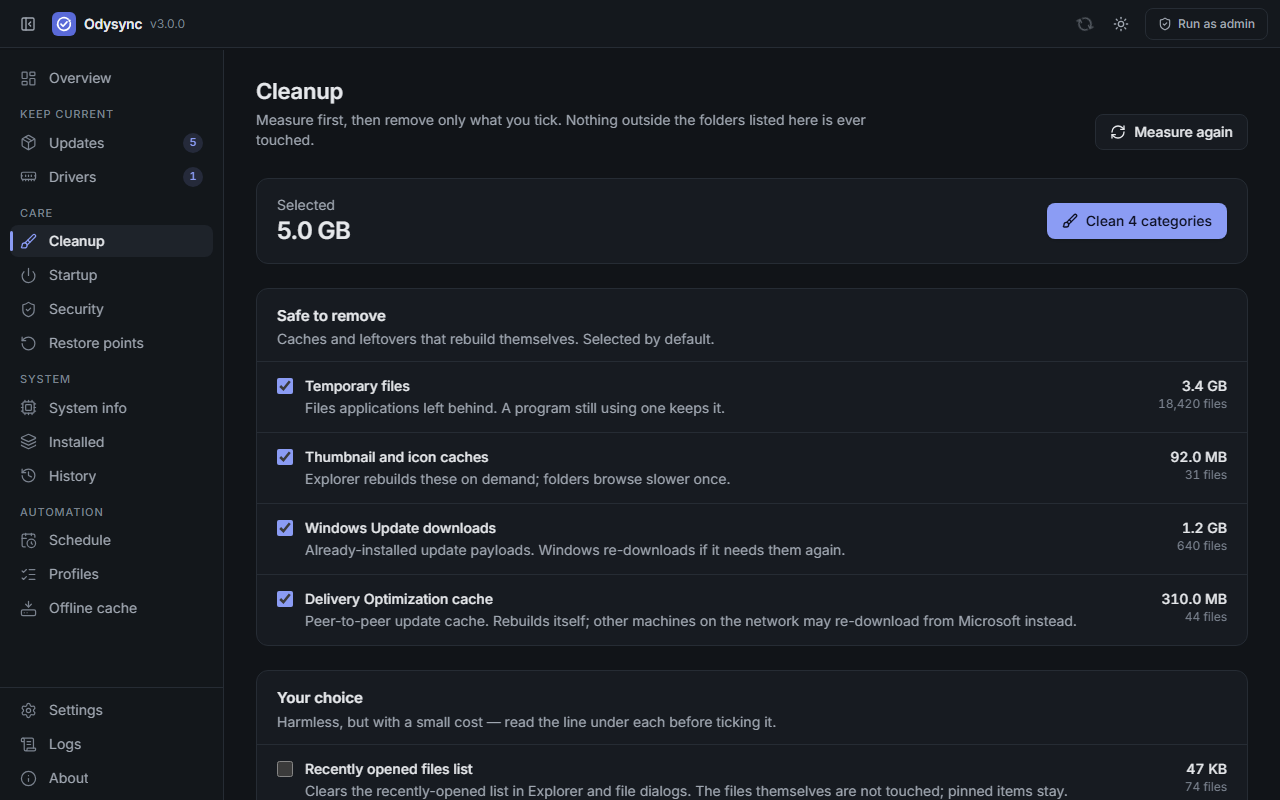
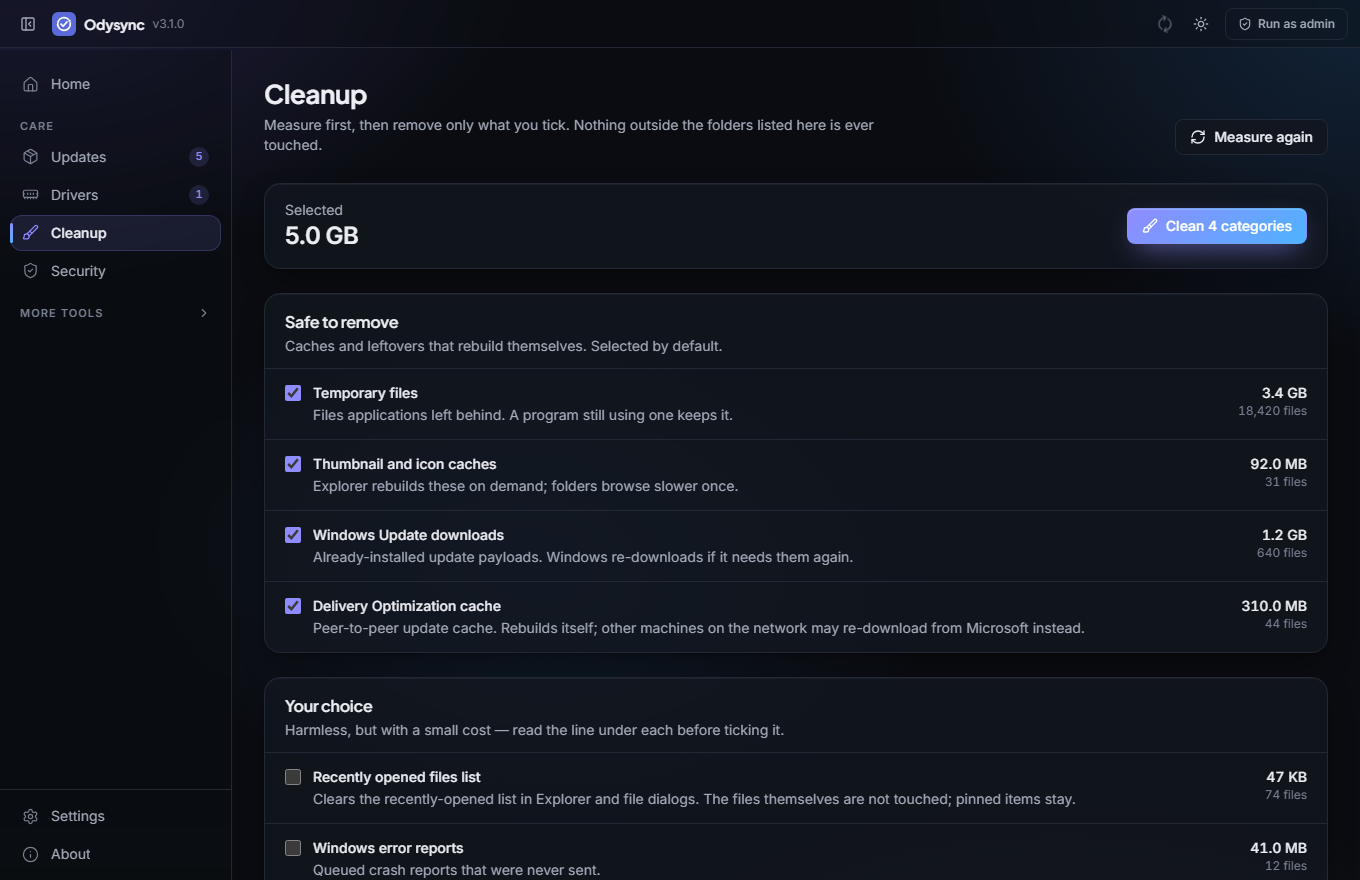
feat: developer packages stay out of unattended care; 3.1.0
pip, npm, cargo, go, .NET tools and PowerShell modules are libraries other
code depends on, so odysync care and the one-click fix leave them for the
developer, like drivers and firmware. The home page lists them separately.

Also: version 3.1.0, changelog and release notes, README for Smart Care,
automatic care and hardware health, new screenshots and animations, a
layout fix for narrow windows, and the CLI note about updates left for you
reads correctly again.

diff --git a/apps/gui/src/pages/Dashboard.tsx b/apps/gui/src/pages/Dashboard.tsx
@@ -80,14 +80,24 @@ export default function Dashboard({ onNavigate }: { onNavigate: (tab: Tab) => vo
     () => new Set(backends.data.filter((b) => b.attended).map((b) => b.kind)),
     [backends.data],
   );
+  const developerKinds = useMemo(
+    () => new Set(backends.data.filter((b) => b.developer).map((b) => b.kind)),
+    [backends.data],
+  );
   const actionable = useMemo(() => scan.data?.actionable ?? [], [scan.data]);
+  // Only what unattended care may install: no drivers, no developer packages.
   const updates = useMemo(
-    () => actionable.filter((u) => !attendedKinds.has(u.backend)),
-    [actionable, attendedKinds],
+    () =>
+      actionable.filter((u) => !attendedKinds.has(u.backend) && !developerKinds.has(u.backend)),
+    [actionable, attendedKinds, developerKinds],
   );
   const attendedUpdates = useMemo(
     () => actionable.filter((u) => attendedKinds.has(u.backend)),
     [actionable, attendedKinds],
+  );
+  const developerUpdates = useMemo(
+    () => actionable.filter((u) => developerKinds.has(u.backend)),
+    [actionable, developerKinds],
   );
   const safeCleanup = useMemo(() => safeCleanupItems(cleanup.data), [cleanup.data]);
   const findings = useMemo(
@@ -100,6 +110,7 @@ export default function Dashboard({ onNavigate }: { onNavigate: (tab: Tab) => vo
       assess({
         updates,
         attendedUpdates,
+        developerUpdates,
         needsAdmin: (scan.data?.skipped ?? []).filter((s) =>
           s.reason.toLowerCase().includes("administrator"),
         ).length,
@@ -116,6 +127,7 @@ export default function Dashboard({ onNavigate }: { onNavigate: (tab: Tab) => vo
     [
       updates,
       attendedUpdates,
+      developerUpdates,
       scan.data,
       devices.data,
       components.data,
@@ -349,7 +361,7 @@ export default function Dashboard({ onNavigate }: { onNavigate: (tab: Tab) => vo
 
       {outcome && <OutcomeBanner outcome={outcome} onHistory={() => onNavigate("history")} />}
 
-      <div className="grid grid-cols-1 lg:grid-cols-[1fr_340px] gap-6 items-start">
+      <div className="grid grid-cols-1 lg:grid-cols-[minmax(0,1fr)_320px] gap-6 items-start">
         <Card
           title="What Odysync found"
           description={

diff --git a/apps/gui/src/care.ts b/apps/gui/src/care.ts
@@ -37,6 +37,8 @@ export interface CareInput {
   updates: UpdateDto[];
   /** Ready drivers, firmware and OS upgrades — for a person to start. */
   attendedUpdates: UpdateDto[];
+  /** pip, npm, cargo … packages with newer versions — for the developer. */
+  developerUpdates: UpdateDto[];
   /** Updates that only need administrator rights to go ahead. */
   needsAdmin: number;
   devices: number;
@@ -118,6 +120,19 @@ export function assess(input: CareInput): CareAssessment {
       tone: "warning",
       fix: null,
       tab: "drivers",
+    });
+  }
+
+  if (input.developerUpdates.length > 0) {
+    const n = input.developerUpdates.length;
+    add({
+      id: "developer",
+      title: `${n} developer ${plural(n, "package")} can be updated`,
+      detail: "pip, npm and similar packages are only updated when you ask — your projects may depend on the versions you have.",
+      points: Math.min(4, n),
+      tone: "info",
+      fix: null,
+      tab: "updates",
     });
   }
 

diff --git a/apps/gui/src/test/care.test.ts b/apps/gui/src/test/care.test.ts
@@ -25,6 +25,7 @@ const cleanupItem = (over: Partial<CleanupItemDto>): CleanupItemDto =>
 const clean: CareInput = {
   updates: [],
   attendedUpdates: [],
+  developerUpdates: [],
   needsAdmin: 0,
   devices: 0,
   outdatedRuntimes: 0,
@@ -60,6 +61,14 @@ describe("care score", () => {
     const a = assess({ ...clean, attendedUpdates: [update("GeForce driver", "nvidia-gpu")] });
     const drivers = a.issues.find((i) => i.id === "drivers");
     expect(drivers?.fix).toBeNull();
+    expect(a.fixable).toBe(0);
+  });
+
+  it("leaves pip, npm and other developer packages to the developer", () => {
+    const a = assess({ ...clean, developerUpdates: [update("requests", "pip"), update("typescript", "npm")] });
+    const dev = a.issues.find((i) => i.id === "developer");
+    expect(dev?.fix).toBeNull();
+    expect(dev?.tab).toBe("updates");
     expect(a.fixable).toBe(0);
   });
 

diff --git a/apps/gui/src/demo/demo.ts b/apps/gui/src/demo/demo.ts
@@ -100,6 +100,7 @@ function b(
     verification,
     verification_detail: `${verification}.`,
     attended: ["windows-drivers", "nvidia-gpu", "windows-feature-update"].includes(kind),
+    developer: ["pip", "npm", "cargo"].includes(kind),
   };
 }
 
@@ -266,7 +267,7 @@ export async function demoInvoke<T>(command: string, args?: Record<string, unkno
 
   switch (command) {
     case "get_system_info":
-      return answer({ os: "Windows", platform: "windows", elevated: false, version: "3.0.0", config_error: null });
+      return answer({ os: "Windows", platform: "windows", elevated: false, version: "3.1.0", config_error: null });
     case "scan":
       await wait(500);
       return answer({

diff --git a/apps/gui/src/test/pages.test.tsx b/apps/gui/src/test/pages.test.tsx
@@ -108,6 +108,9 @@ describe("Home", () => {
     const sent = vi.mocked(api.apply).mock.calls[0][0].updates.map((u) => u.backend);
     expect(sent.length).toBeGreaterThan(0);
     expect(sent).not.toContain("windows-drivers");
+    // Developer packages are the developer's call, not a background job.
+    expect(sent).not.toContain("pip");
+    expect(sent).not.toContain("npm");
 
     await waitFor(() => expect(api.cleanupRun).toHaveBeenCalled(), { timeout: 4000 });
     const ids = vi.mocked(api.cleanupRun).mock.calls.at(-1)![0];

diff --git a/apps/gui/src/components/CareRing.tsx b/apps/gui/src/components/CareRing.tsx
@@ -163,6 +163,7 @@ export function CareRing({
         {center ?? (
           <div className="font-display text-[60px] leading-none font-bold tabular-nums text-gradient">
             {shown}
+            {mode === "busy" && <span className="text-[26px] ml-0.5 align-top">%</span>}
           </div>
         )}
         <div className="mt-2 text-[15px] font-semibold text-fg font-display">{label}</div>

diff --git a/apps/gui/src/types.ts b/apps/gui/src/types.ts
@@ -49,6 +49,8 @@ export interface BackendDto {
   verification_detail: string;
   /** Drivers, firmware, OS upgrades: never part of one-click or automatic care. */
   attended: boolean;
+  /** pip, npm, cargo and other developer packages: updated on request only. */
+  developer: boolean;
 }
 
 export interface SystemInfoDto {

diff --git a/crates/odysync-core/src/model.rs b/crates/odysync-core/src/model.rs
@@ -359,6 +359,31 @@ impl BackendKind {
         )
     }
 
+    /// Global packages of programming languages — pip, npm, cargo, go, .NET
+    /// tools, PowerShell modules.
+    ///
+    /// Other code depends on their exact versions: a background upgrade of a
+    /// global Python or Node package can break a project that has nothing to
+    /// do with Odysync. Unattended care leaves them for the developer, who
+    /// updates them from the Updates page or with `odysync apply`.
+    pub fn is_developer_package(&self) -> bool {
+        matches!(
+            self,
+            BackendKind::Pip
+                | BackendKind::Npm
+                | BackendKind::Cargo
+                | BackendKind::Go
+                | BackendKind::DotnetTool
+                | BackendKind::PowerShellModule
+        )
+    }
+
+    /// Whether unattended care (`odysync care`, a schedule, the one-click fix)
+    /// may install updates from this backend.
+    pub fn in_unattended_care(&self) -> bool {
+        !self.needs_attended_install() && !self.is_developer_package()
+    }
+
     /// Whether this backend shells out to winget to do its work.
     ///
     /// These are opt-in together with winget itself: enabling them without
@@ -652,6 +677,22 @@ impl PlannedUpdate {
 #[cfg(test)]
 mod tests {
     use super::*;
+
+    #[test]
+    fn developer_packages_are_never_updated_in_the_background() {
+        for kind in [BackendKind::Pip, BackendKind::Npm, BackendKind::Cargo] {
+            assert!(kind.is_developer_package(), "{kind:?}");
+            assert!(!kind.in_unattended_care(), "{kind:?}");
+        }
+        for kind in [
+            BackendKind::Direct,
+            BackendKind::Homebrew,
+            BackendKind::WindowsUpdate,
+        ] {
+            assert!(kind.in_unattended_care(), "{kind:?}");
+        }
+        assert!(!BackendKind::NvidiaGpu.in_unattended_care());
+    }
 
     #[test]
     fn drivers_firmware_and_os_upgrades_wait_for_a_person() {

diff --git a/crates/odysync-cli/src/main.rs b/crates/odysync-cli/src/main.rs
@@ -1002,7 +1002,8 @@ async fn run(cli: Cli) -> Result<u8> {
 /// `odysync care`: the updates that pass every rule, then the safe cleanup.
 ///
 /// Deliberately narrower than `apply` followed by `clean --apply`: no filters,
-/// no drivers, firmware or OS upgrades, no opt-in or destructive cleanup
+/// no drivers, firmware, OS upgrades or developer packages (pip, npm, cargo …),
+/// no opt-in or destructive cleanup
 /// categories, and the restore point setting from the config. It is what a
 /// schedule runs while nobody is watching.
 async fn run_care(
@@ -1017,13 +1018,13 @@ async fn run_care(
     // ── Look ──
     let backends = select_backends(config, &[]).await?;
     let candidates = scan_all(&backends).await;
-    // Drivers, firmware and OS upgrades wait for a person; see
-    // `BackendKind::needs_attended_install`.
+    // Drivers, firmware, OS upgrades and developer packages wait for a
+    // person; see `BackendKind::in_unattended_care`.
     let (attended, plan): (Vec<_>, Vec<_>) = config
         .policy
         .plan(candidates)
         .into_iter()
-        .partition(|p| p.is_actionable() && p.candidate.id.backend.needs_attended_install());
+        .partition(|p| p.is_actionable() && !p.candidate.id.backend.in_unattended_care());
     let actionable = plan.iter().filter(|p| p.is_actionable()).count();
 
     let findings = odysync_backends::cleanup::scan().await;
@@ -1052,7 +1053,8 @@ async fn run_care(
             println!(
                 "{}",
                 style.dim(&format!(
-                    "{} driver, firmware or system upgrade(s) are left for you to start                      with `odysync apply`.",
+                    "{} driver, firmware, system or developer-package update(s) are left for you \
+                     to start with `odysync apply`.",
                     attended.len()
                 ))
             );

diff --git a/apps/gui/src-tauri/src/commands.rs b/apps/gui/src-tauri/src/commands.rs
@@ -136,6 +136,8 @@ pub struct BackendDto {
     /// Drivers, firmware, OS upgrades: never part of one-click or automatic
     /// care.
     pub attended: bool,
+    /// pip, npm, cargo and other developer packages: updated on request only.
+    pub developer: bool,
 }
 
 #[derive(Serialize)]
@@ -535,6 +537,7 @@ pub async fn list_backends(state: State<'_, AppState>) -> Result<Vec<BackendDto>
                 verification: verification.label(),
                 verification_detail: verification.detail(),
                 attended: kind.needs_attended_install(),
+                developer: kind.is_developer_package(),
             }
         })
         .collect())

diff --git a/README.md b/README.md
@@ -38,6 +38,14 @@ Most "PC optimizer" suites mix a few genuinely useful tools with features that o
 
 <table>
 <tr>
+<td colspan="2" valign="top">
+
+### ✨ One click — or none at all
+**Smart Care** sums the machine up in one score and lists every point it takes off, with the reason. *Fix everything* installs the safe updates and clears the junk files in one go; **automatic care** does the same on a schedule. Drivers, firmware, system upgrades and developer packages (pip, npm, cargo …) are never part of it — they wait for you.
+
+</td>
+</tr>
+<tr>
 <td width="50%" valign="top">
 
 ### 📦 Straight from the publisher
@@ -71,6 +79,9 @@ Each source names who verified what it installs — *verified by Odysync*, *by t
 
 | | Windows | macOS | Linux |
 |---|:---:|:---:|:---:|
+| **Smart Care** — one care score, *Fix everything* for safe updates and junk files | ✅ | ✅ | ✅ |
+| **Automatic care** — the same, daily or weekly, on its own (`odysync care`) | ✅ | ✅ | ✅ |
+| **Disk and battery health** — SMART/NVMe status, wear, temperature, battery capacity | ✅ | ✅ | ✅ (smartctl) |
 | **Programs, direct from the publisher** — signature-pinned installers from GitHub releases and vendor feeds | ✅ | ✅ Sparkle apps | — |
 | **System package managers** — Homebrew, apt, dnf, pacman, zypper, Flatpak, Snap, Nix, Chocolatey, Scoop | ✅ | ✅ | ✅ |
 | **Language ecosystems** — pip, npm, cargo, go, .NET tools, VS Code and JetBrains extensions | ✅ | ✅ | ✅ |
@@ -95,7 +106,7 @@ Everything in the app is also in the CLI.
 </tr>
 <tr>
 <td width="50%"><img src="docs/screenshots/maintenance-dark.png" alt="Cleanup grouped by risk"><p align="center"><sub><b>Cleanup</b> — grouped by risk, measured before anything is deleted</sub></p></td>
-<td width="50%"><img src="docs/screenshots/settings-light.png" alt="Settings with optional sources"><p align="center"><sub><b>Settings</b> — optional sources, safety rules, theme</sub></p></td>
+<td width="50%"><img src="docs/screenshots/hardware-light.png" alt="System and hardware health"><p align="center"><sub><b>System &amp; health</b> — disk wear, temperature, battery capacity</sub></p></td>
 </tr>
 </table>
 
@@ -103,9 +114,9 @@ Everything in the app is also in the CLI.
 
 <img src="docs/assets/theme-switch.gif" alt="The overview switching between the light and the dark theme" width="560" align="right">
 
-A calm interface with readable type and one accent colour. It follows your system theme, or you pick one in the title bar.
+A calm, animated interface: a care ring that spins while Odysync works, glass cards over a slowly moving light, readable type. It follows your system theme, or you pick one in the title bar, and it honours *reduce motion*.
 
-Navigation is grouped by what you want to do — *keep current*, *care*, *system*, *automation* — so the page you need is never more than one click away, and every page says in a sentence what it is for.
+Home and four everyday pages — Updates, Drivers, Cleanup, Security — are all most people need. Everything else waits under *More tools*, and every page says in a sentence what it is for.
 
 <br clear="right">
 
@@ -157,6 +168,10 @@ The app installs the CLI next to itself; scheduled runs use it.
 ## Command line
 
 ```sh
+odysync care --dry-run               # what one-click care would do: safe updates + junk files
+odysync care                         # do it (drivers, firmware and pip/npm are left for you)
+odysync health                       # disk and battery health
+
 odysync scan                         # what can be updated, and what is held back and why
 odysync apply                        # install everything that passes the safety rules
 odysync apply --only vscode --yes    # one package, no prompt
@@ -173,7 +188,7 @@ odysync startup                      # programs that start at sign-in
 odysync sysinfo                      # processor, memory, graphics, disks
 
 odysync hold vscode                  # never update this one
-odysync schedule --frequency daily --time 09:00
+odysync schedule --frequency daily --care   # automatic care
 odysync backends                     # every source, and who verifies what it installs
 ```
 

diff --git a/docs/release-notes/v3.1.0.md b/docs/release-notes/v3.1.0.md
@@ -1,0 +1,25 @@
+Odysync 3.1 makes looking after a computer one click — or none at all.
+
+## Highlights
+
+- **Smart Care.** Odysync now opens on a single care score. Every point it takes off is listed with the reason, so the number is never a scare tactic. *Fix everything* installs the safe updates and clears the junk files in one go, while a ring shows what it is doing.
+- **Automatic care.** Flip one switch and Odysync installs safe updates and clears junk files on its own, daily or weekly. It uses the same safety checks as a manual run.
+- **Drivers always wait for you.** Drivers, firmware and system upgrades are never part of one-click or automatic care, and neither are developer packages such as pip or npm, which your projects may depend on. They are listed for you to start.
+- **Disk and battery health** on Windows, macOS and Linux, read from what the hardware reports about itself: failing disks, wear, temperature and how much charge the battery still holds.
+- **PowerShell 7 and Shotcut** join the apps updated straight from their publishers. Both installers were inspected and their signatures pinned before being added.
+- **A new look**: animated, calmer and simpler, in light and dark.
+
+## Command line
+
+```sh
+odysync care --dry-run      # what automatic care would do
+odysync care                # do it
+odysync schedule --frequency daily --care
+odysync health              # disk and battery health
+```
+
+## Install
+
+Pick the package for your system below; each file has a `.sha256` next to it. The releases are not code-signed yet — see the README for what SmartScreen and Gatekeeper will say and how to proceed.
+
+Full list of changes: [CHANGELOG.md](https://github.com/SenseiIssei/Odysync/blob/main/CHANGELOG.md).
